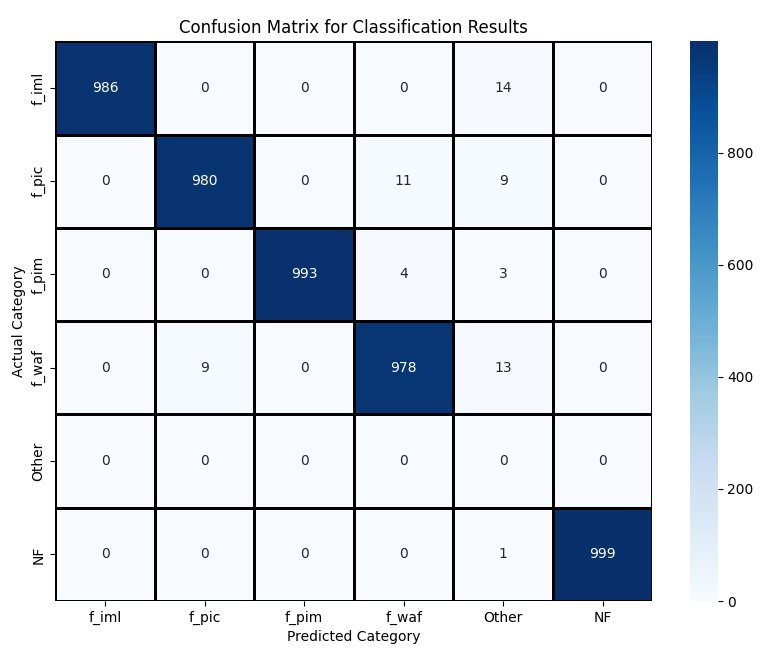
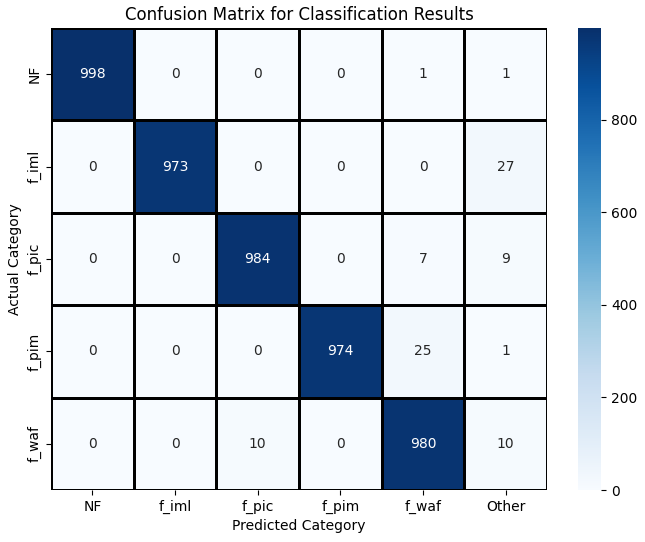
update framework

diff --git a/evaluation.py b/evaluation.py
@@ -24,10 +24,10 @@ data_set = 'test_data'
 test_data = load_csv_files_from_folder(f'data/{data_set}')
 
 # Confusion matrix structure
-confusion_matrix = np.zeros((6, 6), dtype=int)  # Assuming 5 categories
+confusion_matrix = np.zeros((5, 6), dtype=int)  # Assuming 5 categories
 
 # Dataset mapping (order is important for indexing)
-dataset_mapping = ['f_iml', 'f_pic', 'f_pim', 'f_waf', 'Other', 'NF']
+dataset_mapping = ['NF', 'f_iml', 'f_pic', 'f_pim', 'f_waf', 'Other']
 
 predictor = AutoencoderBasedDiagnosis()
 predictor.Initialize()
@@ -55,14 +55,14 @@ for data_set_name, data in test_data.items():
         if nominal_behaviour:
             predicted_category = dataset_mapping.index('NF')
         else:
-            predicted_category = np.argmax(isolation)
+            predicted_category = np.argmax(isolation) + 1 # +1 since NF is the first category in confusion matrix
 
         confusion_matrix[actual_category, predicted_category] += 1
 
 
 print(f'Out of distribution hits: {predictor.out_of_distribution_hits}')
 
-df_cm = pd.DataFrame(confusion_matrix, index=dataset_mapping, columns=dataset_mapping)
+df_cm = pd.DataFrame(confusion_matrix, index=dataset_mapping[:-1], columns=dataset_mapping)
 
 plt.figure(figsize=(8, 6))
 sns.heatmap(df_cm, annot=True, fmt="d", cmap="Blues", linewidths=1, linecolor="black")

diff --git a/autoencoder.py b/autoencoder.py
@@ -1,4 +1,3 @@
-# Define the VAE architecture
 import json
 import os
 
@@ -56,8 +55,6 @@ class AutoEncoder(nn.Module):
 
 
 def load_autoencoder(path_to_folder):
-    from autoencoder import AutoEncoder
-
     metadata = json.load(open(f'{path_to_folder}/metadata.json'))
     model_weights = f'{path_to_folder}/model.pt'
 

diff --git a/ae_based_diagnosis.py b/ae_based_diagnosis.py
@@ -1,11 +1,9 @@
 import pickle
-from collections import Counter
 
 import numpy as np
 import torch
-from torch.nn.functional import mse_loss
 import torch.nn.functional as F
-
+from torch.nn.functional import mse_loss
 
 from autoencoder import load_autoencoder
 

diff --git a/README.md b/README.md
@@ -1,12 +1,14 @@
 # Reconstruction-Based Fault Classification
 
-**TLDR: use an ensemble of autoencoders to detect and isolate a fault in a cyber-physical system**
-
 <picture style="align: center; padding-bottom: 3mm;">
   <img alt="" src="./data/fault_isolation_abstract_procedure.PNG">
 </picture>
 
 This repository contains code required to participate in the [LiU-ICE DeluXe Diagnosis Competition](https://vehsys.gitlab-pages.liu.se/dx25benchmarks/liuice/liuice_index).
+
+**TLDR: use an ensemble of autoencoders to detect and isolate a fault in a cyber-physical system**
+
+Proposed method is **system-agnostic**, that it is doing not make any assumptions about the underlying system's dynamics, as long as there is a system simulation log per fault.
 
 ### High-level overview
 
